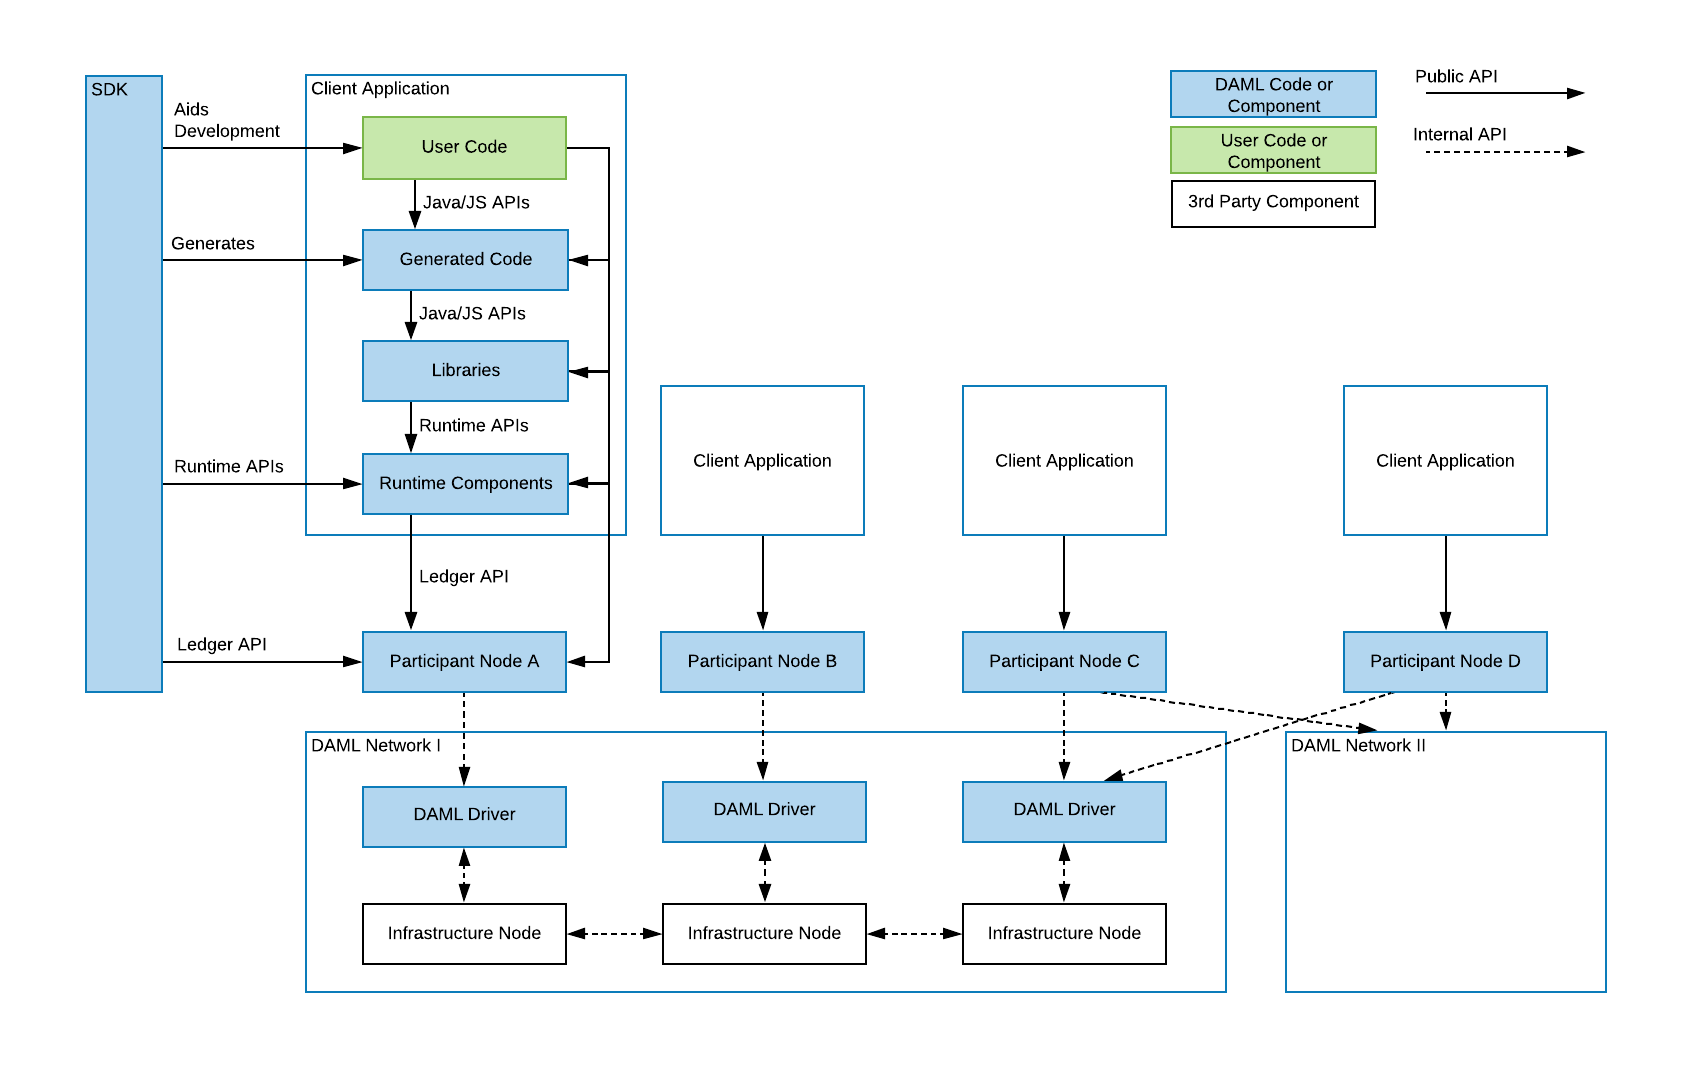
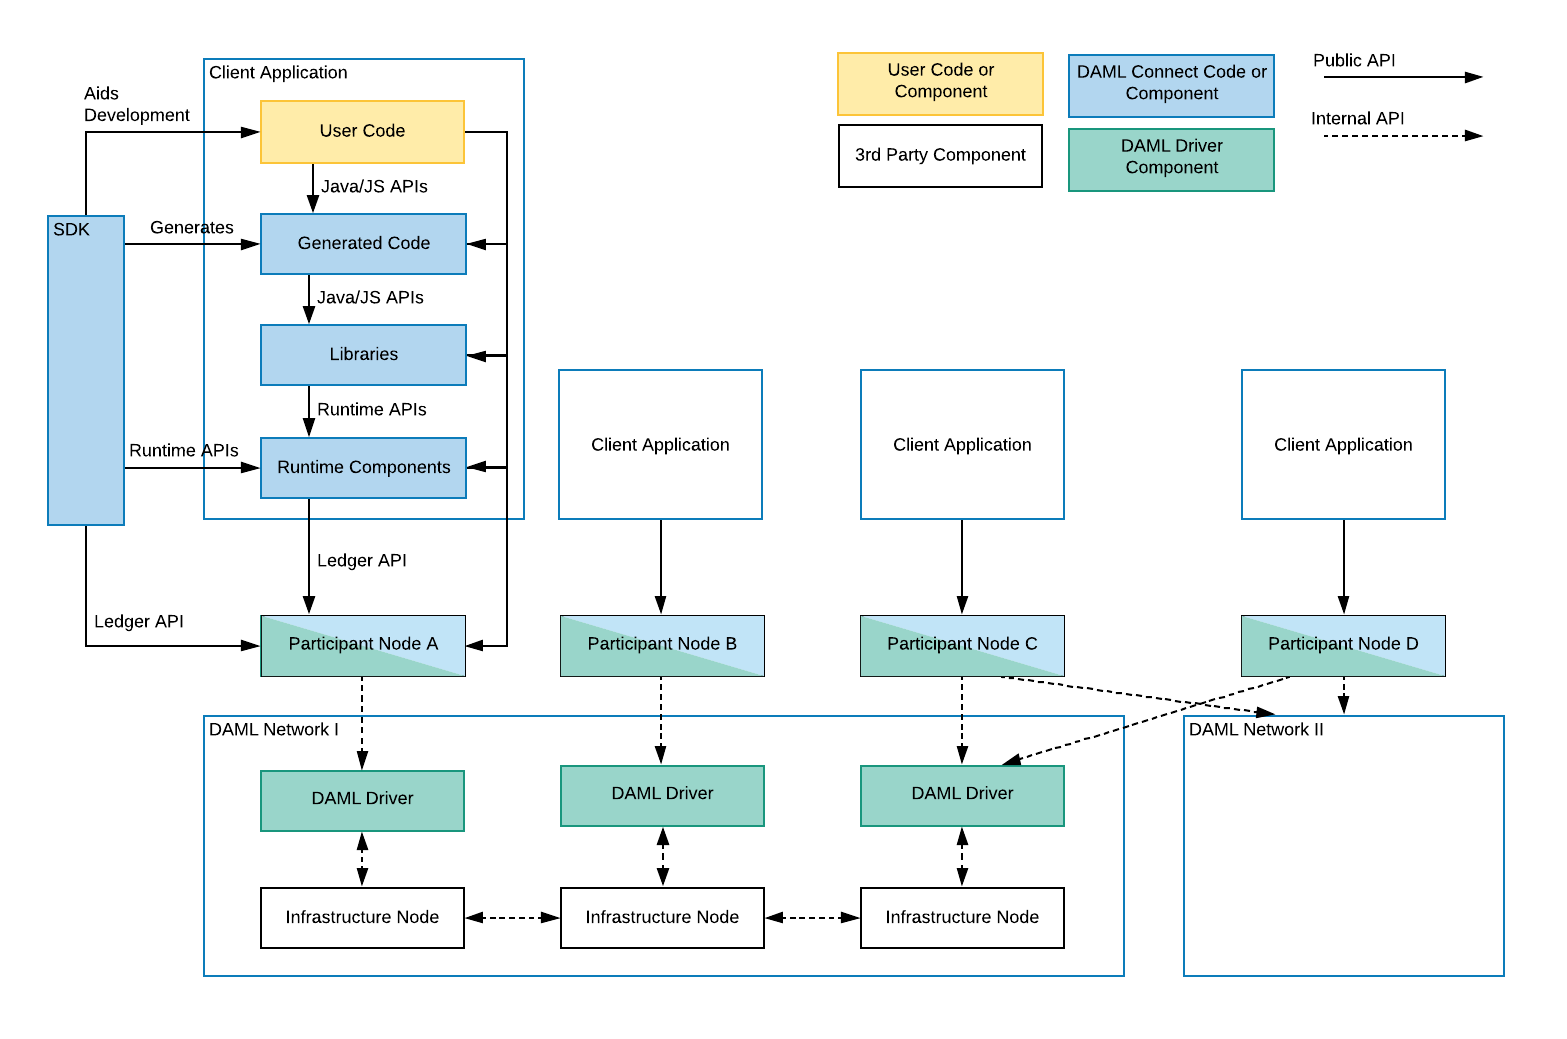
Amend docs to introduce the concept of DAML Connect
CHANGELOG_BEGIN
CHANGELOG_END

diff --git a/docs/source/support/overview.rst b/docs/source/support/overview.rst
@@ -23,25 +23,35 @@ A high level view of the architecture of a DAML application or solution is helpf
 
 .. figure:: architecture.png
 
+The stack is segmented into two parts. DAML Drivers encompass those components which enable an infrastructure to run DAML Smart Contracts, turning it into a **DAML Network**. **DAML Connect** consists of everything developers and users need to connect to a DAML Network: the tools to build, deploy, integrate, and maintain a DAML Application. 
+
 DAML Networks
-.............
+~~~~~~~~~~~~~
+
+DAML Drivers
+............
 
 At the bottom of every DAML Application is a DAML Network, a distributed, or possibly centralized persistence infrastructure together with DAML Drivers. DAML Drivers enable the persistence infrastructure to act as a consensus, messaging, and in some cases persistence layer for DAML Applications. Most DAML Drivers will have a public API, but there are no *uniform* public APIs on DAML Drivers. This does not harm application portability since applications only interact with DAML Networks through the Participant Node. A good example of a public API of a DAML Driver is the command line interface of `DAML for Postgres <https://github.com/digital-asset/daml/blob/master/ledger/daml-on-sql/README.rst>`_. It's a public interface, but specific to the Postgres driver.
 
-Participant Nodes
-.................
-
-On top of, or integrated into the DAML Drivers sits a Participant Node, that has the primary purpose of exposing the DAML Ledger API. In the case of *integrated* DAML Drivers, the Participant Node usually interacts with the DAML Drivers through solution-specific APIs. In this case, Participant Nodes can only communicate with DAML Drivers of one DAML Network. In the case of *interoperable* DAML Drivers, the Participant Node communicates with the DAML Drivers through the uniform `Canton Protocol <https://www.canton.io/docs/stable/user-manual/index.html>`_. The Canton Protocol is versioned and has some cross-version compatibility guarantees, but is not a public API. So Participant nodes may have public APIs like monitoring and logging, command line interfaces or similar, but the only *uniform* public API exposed by all Participant Nodes is the Ledger API.
 
 Integration Components
 ......................
 
 DAML Drivers and Participant Nodes share a lot of components between underlying DLTs or Databases. These shared components are called the Integration Components, or sometimes the :doc:`/daml-integration-kit/index`.
 
-Ledger API
-..........
+Participant Nodes
+~~~~~~~~~~~~~~~~~
 
-The Ledger API is the primary interface that offers forward and backward compatibility between DAML Networks and Applications. As you can see in the diagram above, all interaction between components above the Participant Node and the Participant Node or DAML Network happen through the Ledger API. The Ledger API is a public API and offers the lowest level of access to DAML Ledgers supported for application use.
+On top of, or integrated into the DAML Drivers sits a Participant Node, that has the primary purpose of exposing the DAML Ledger API. In the case of *integrated* DAML Drivers, the Participant Node usually interacts with the DAML Drivers through solution-specific APIs. In this case, Participant Nodes can only communicate with DAML Drivers of one DAML Network. In the case of *interoperable* DAML Drivers, the Participant Node communicates with the DAML Drivers through the uniform `Canton Protocol <https://www.canton.io/docs/stable/user-manual/index.html>`_. The Canton Protocol is versioned and has some cross-version compatibility guarantees, but is not a public API. So participant nodes may have public APIs like monitoring and logging, command line interfaces or similar, but the only *uniform* public API exposed by all Participant Nodes is the Ledger API.
+
+
+Ledger API
+~~~~~~~~~~
+
+The Ledger API is the primary interface that offers forward and backward compatibility between DAML Networks and Applications (including DAML Connect components). As you can see in the diagram above, all interaction between components above the Participant Node and the Participant Node or DAML Network happen through the Ledger API. The Ledger API is a public API and offers the lowest level of access to DAML Ledgers supported for application use.
+
+DAML Connect
+~~~~~~~~~~~~
 
 Runtime Components
 ..................
@@ -61,4 +71,4 @@ The SDK allows the generation of code for some languages from a DAML Model. This
 Developer Tools / SDK
 .....................
 
-The SDK consists of the developer tools used to develop user code, both DAML and in secondary languages, to generate code, and to interact with running applications via Runtime, and Ledger API. The SDK has a broad public API covering the DAML Language, CLIs, IDE, and Developer tools, but few of those APIs are intended for runtime use in a production environment. Exceptions to that are called out on :doc:`component-statuses`.
+The DAML Connect SDK consists of the developer tools used to develop user code, both DAML and in secondary languages, to generate code, and to interact with running applications via Runtime, and Ledger API. The SDK has a broad public API covering the DAML Language, CLIs, IDE, and Developer tools, but few of those APIs are intended for runtime use in a production environment. Exceptions to that are called out on :doc:`component-statuses`.

diff --git a/language-support/scala/examples/quickstart-scala/README.md b/language-support/scala/examples/quickstart-scala/README.md
@@ -6,7 +6,7 @@ This example demonstrates how to:
 - how to exercise a choice and send a corresponding exercise command
 - subscribe to receive ledger events and decode them into generated Scala ADTs
 
-All instructions below assume that you have DAML Connect SDK installed. If you have not installed it yet, please follow these instructions: https://docs.daml.com/getting-started/installation.html
+All instructions below assume that you have the DAML Connect SDK installed. If you have not installed it yet, please follow these instructions: https://docs.daml.com/getting-started/installation.html
 
 ## Create a quickstart-scala project
 ```

diff --git a/docs/source/app-dev/app-arch.rst b/docs/source/app-dev/app-arch.rst
@@ -108,7 +108,7 @@ form of the required tokens is described in the :ref:`Authorization <authorizati
 Developer workflow
 ~~~~~~~~~~~~~~~~~~
 
-DAML Connect enables a local development environment with fast iteration cycles. If you run
+The SDK enables a local development environment with fast iteration cycles. If you run
 ``daml-reload-on-change.sh`` of the ``create-daml-app``, a local DAML sandbox ledger is started that
 is updated with your most recent DAML code on any change. Next, you can start your frontend in
 development mode by changing to your ``ui`` directory and run ``npm start``. This will reload your

diff --git a/docs/source/app-dev/bindings-java/quickstart.rst b/docs/source/app-dev/bindings-java/quickstart.rst
@@ -6,7 +6,7 @@
 IOU Quickstart Tutorial
 #######################
 
-In this guide, you will learn about DAML Connect developer tools and DAML applications by:
+In this guide, you will learn about developer tools and DAML applications by:
 
 - developing a simple ledger application for issuing, managing, transferring and trading IOUs ("I Owe You!")
 - developing an integration layer that exposes some of the functionality via custom REST services

diff --git a/docs/source/app-dev/authorization.rst b/docs/source/app-dev/authorization.rst
@@ -6,7 +6,7 @@
 Authorization
 #############
 
-When developing DAML applications using DAML Connect tools,
+When developing DAML applications using SDK tools,
 your local setup will most likely not verify any authorization -
 by default, any valid ledger API request will be accepted by the sandbox.
 
